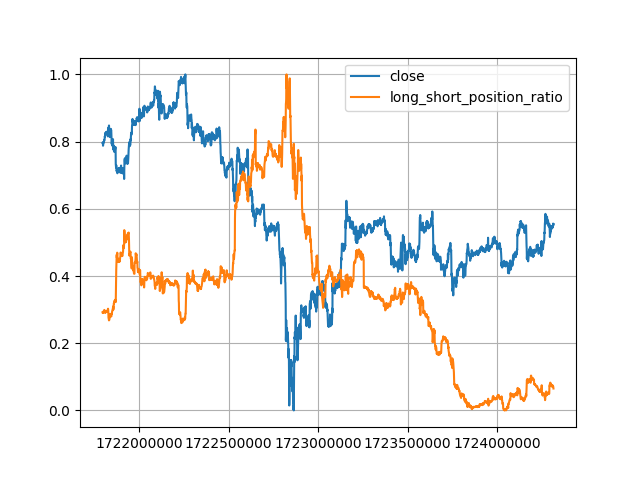
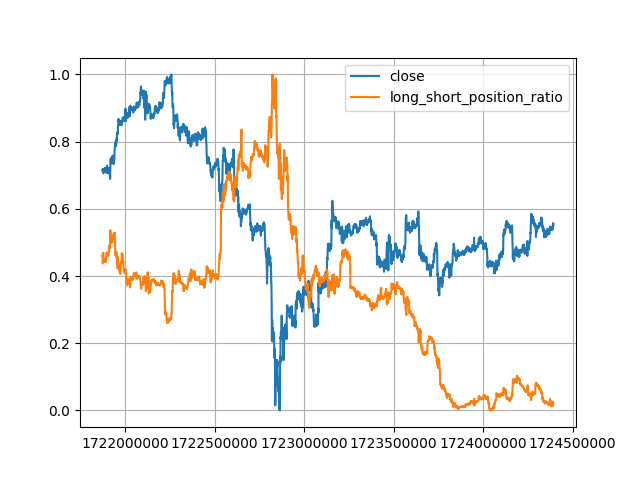
绘图

Changed region(s): [[0.1562, 0.1562, 0.875, 0.875], [0.125, 0.9062, 0.9688, 0.9375]]

diff --git a/PostionRatioTest.py b/PostionRatioTest.py
@@ -126,11 +126,11 @@ plt.plot(list(map(lambda x: x['time'] / 1000, klines)), close_data, label='close
 # plt.plot(list(map(lambda x: x['time']/1000, klines)), long_position, label='long_position')
 plt.plot(list(map(lambda x: x['time'] / 1000, klines)), short_position, label='short_position')
 plt.plot(list(map(lambda x: x['time'] / 1000, klines)), short_account, label='short_account')
-plt.plot(list(map(lambda x: x['time'] / 1000, klines)),
-         normalize(np.array(list(map(lambda x: x['shortAccount'], top_position_ratio)))
-                   / np.array(list(map(lambda x: x['shortAccount'], top_account_ratio)))),
-         label='short_position_account_ratio')
+short_position_account = normalize(np.array(list(map(lambda x: x['shortAccount'], top_position_ratio)))
+                   / np.array(list(map(lambda x: x['shortAccount'], top_account_ratio))))
+# plt.plot(list(map(lambda x: x['time'] / 1000, klines)), short_position_account, label='short_position_account_ratio')
 # plt.plot(list(map(lambda x: x['time']/1000, klines)), np.array(long_position) + np.array(short_position), label='short_position')
+# plt.plot(list(map(lambda x: x['time'] / 1000, klines)), close_data*-short_position, label='profit')
 plt.legend()
 plt.ticklabel_format(useOffset=False, style='plain')
 plt.grid(axis='both')
@@ -150,4 +150,8 @@ offset = 50
 #     plt.grid(axis='both')
 #     plt.legend()
 #     plt.savefig(f'offsetPic/{i}.png')
+
+plt.clf()
+
+
 print('已完成绘图')
